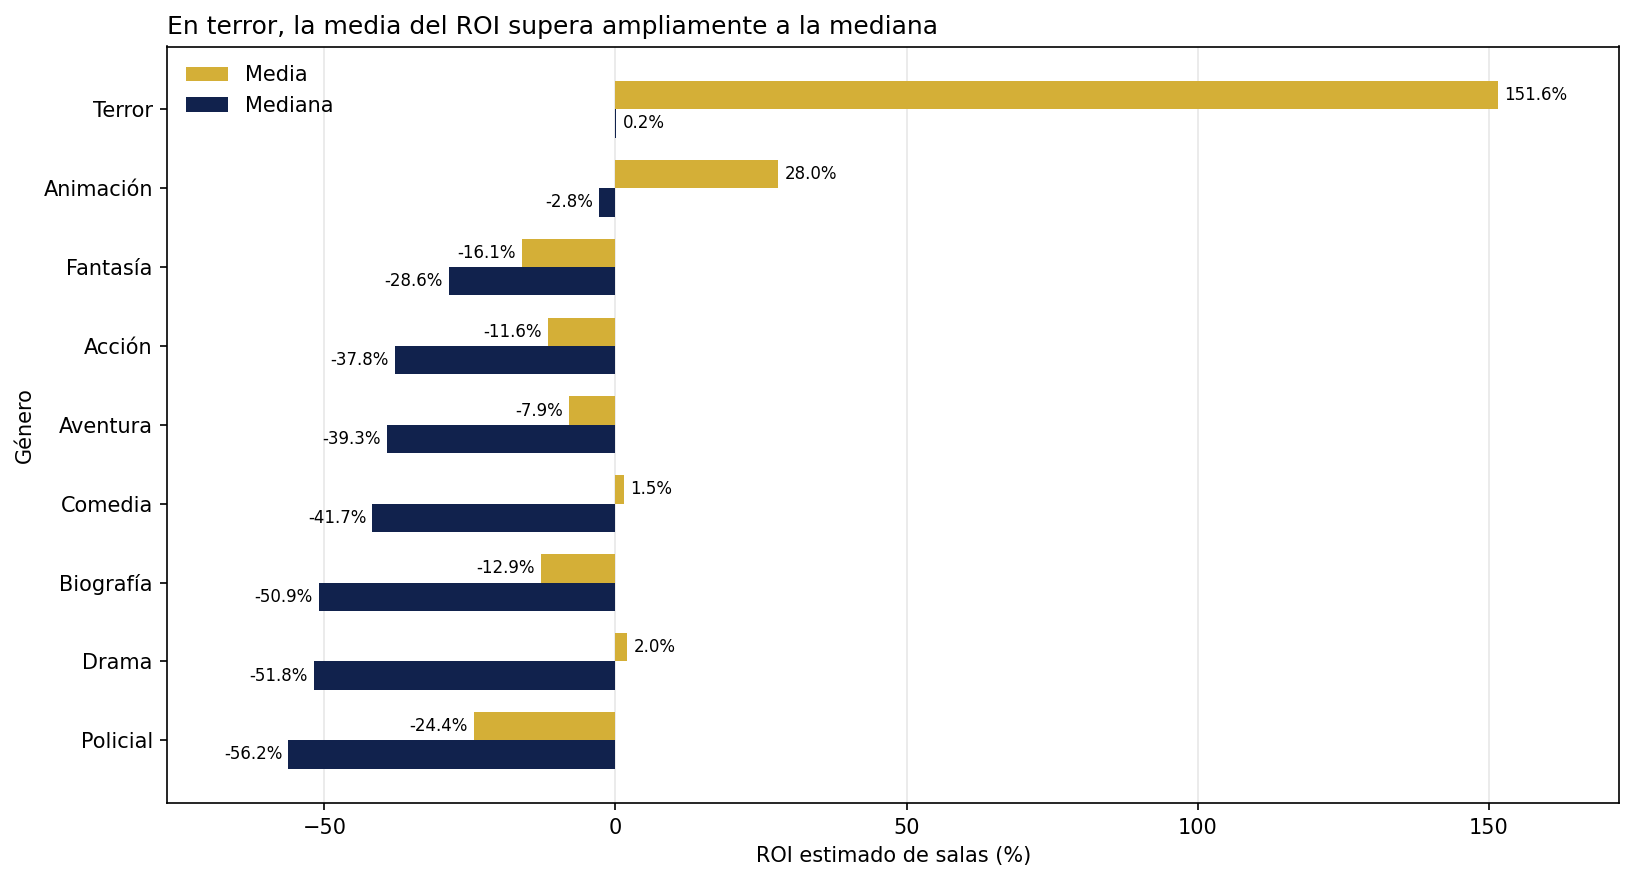
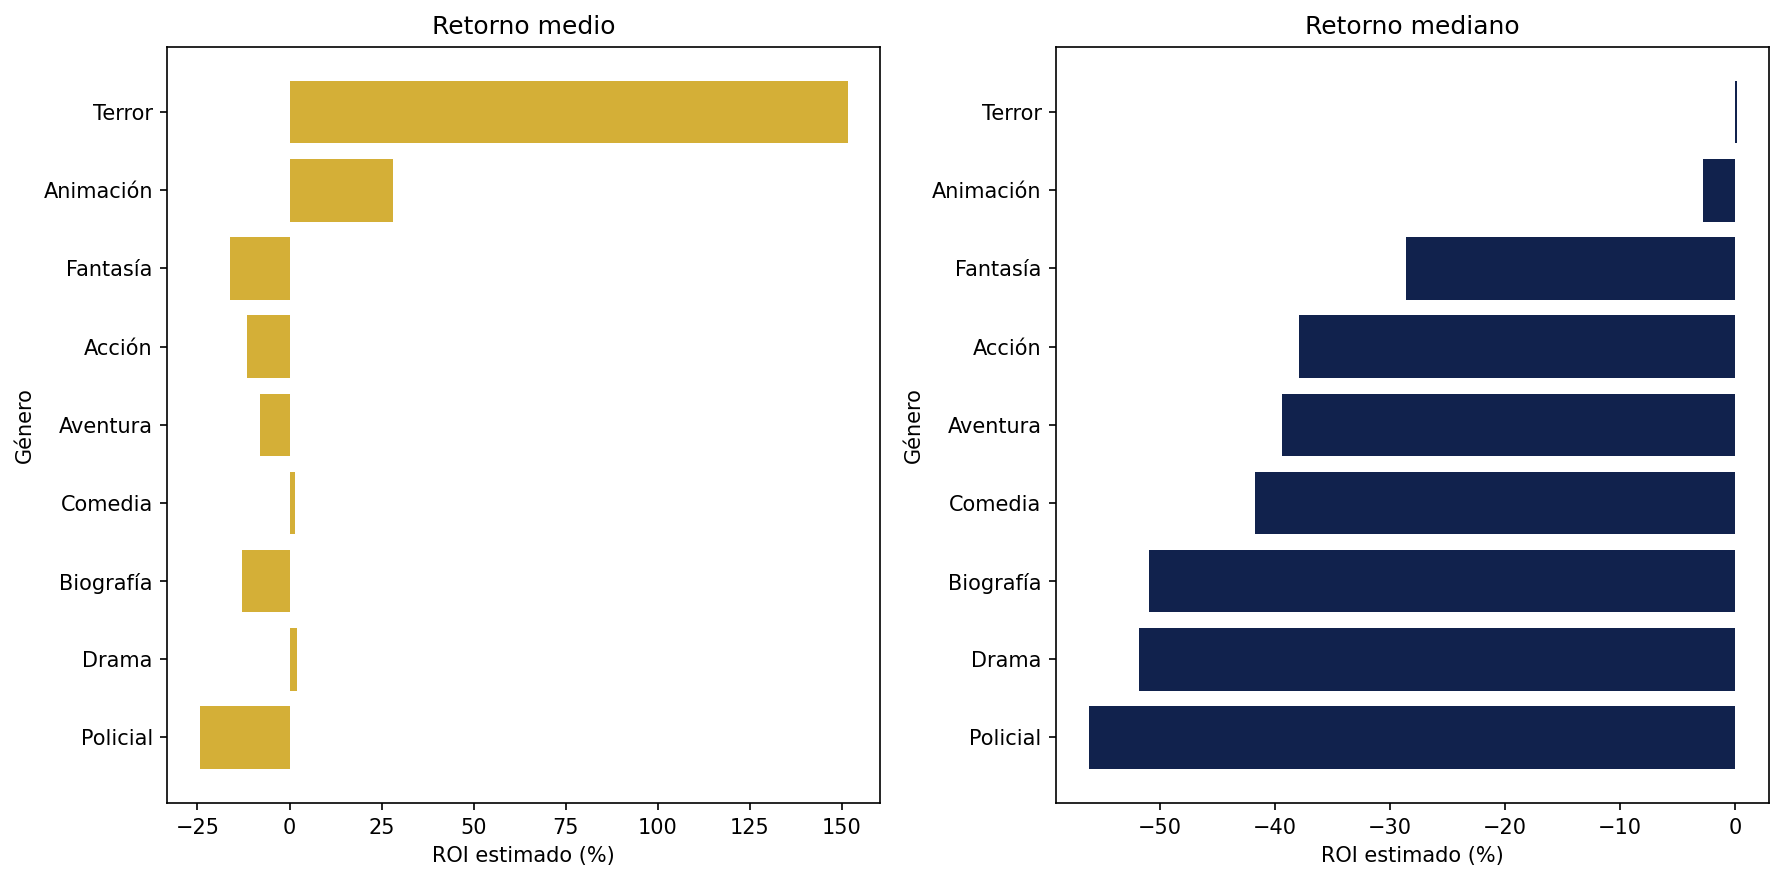
Simplificar el análisis con herramientas del curso

diff --git a/README.md b/README.md
@@ -27,7 +27,7 @@ python -m pip install -r requirements.txt
 1. Abrir Jupyter con `python -m notebook` desde la raíz del repositorio.
 2. Abrir `notebooks/Proyecto_Final_B_Portafolio_Cine.ipynb`.
 3. Seleccionar el entorno instalado y ejecutar todas las celdas de arriba abajo.
-4. Revisar las observaciones que aparecen después del código. Los gráficos y las tablas se guardan en `salidas/`.
+4. Revisar las observaciones que aparecen después del código. Los gráficos se guardan en `salidas/`; las tablas quedan mostradas en las celdas.
 
 También se puede abrir el notebook con VS Code usando el mismo entorno. Las rutas funcionan desde la raíz o desde `notebooks/`. Los gráficos HTML interactivos necesitan conexión para cargar Plotly.
 
@@ -36,7 +36,7 @@ También se puede abrir el notebook con VS Code usando el mismo entorno. Las rut
 - `datos/`: CSV originales, que se conservan sin modificaciones.
 - `notebooks/Proyecto_Final_B_Portafolio_Cine.ipynb`: versión principal para la entrega y la presentación.
 - `notebooks/borradores/`: antecedentes de la limpieza y exploraciones previas. Sus cifras y propuestas no son la versión final; algunos conservan rutas originales de Colab.
-- `salidas/`: gráficos PNG y HTML y tablas CSV generadas por el notebook principal.
+- `salidas/`: gráficos PNG y HTML generados por el notebook principal.
 - `instrucciones/`: consigna y descripción de los datos.
 - `clases/`: material de referencia del curso y ejercicios.
 
@@ -47,3 +47,13 @@ Los USD 500 millones cubren producción y marketing. En el escenario base, marke
 Los montos se expresan en dólares de 2020 para compararlos con la base: al invertir en otro año se debe actualizar el capital y los costos. La regla comercial de 2,5× se informa por separado del ROI estimado, cuyo equilibrio queda en 3× bajo estos supuestos.
 
 La simulación compara proyectos independientes con resultados compartidos por grupo y prueba sensibilidad a éxitos extremos y mayor marketing. Son escenarios históricos condicionados a los supuestos, no garantías ni retornos contractuales del fondo. La presentación ejecutiva de diez minutos es un entregable separado.
+
+## Herramientas del curso utilizadas
+
+- Clases 1–3: constantes, listas, diccionarios, ciclos, condiciones y funciones.
+- Clases 4–5: filtros, limpieza, agrupaciones y cruces de tablas con pandas.
+- Clases 6–7: gráficos de Matplotlib, Seaborn y Plotly.
+- Clase 10: revisión de calidad, percentiles y sorteos con NumPy.
+- Clase 12: tramos de presupuesto con `pd.cut`.
+
+La simulación aplica esas herramientas al caso: cada ciclo representa un escenario y suma los resultados de sus proyectos.
